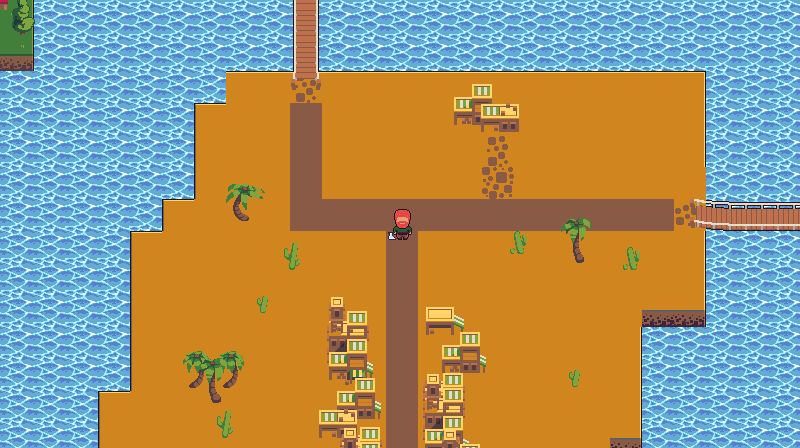
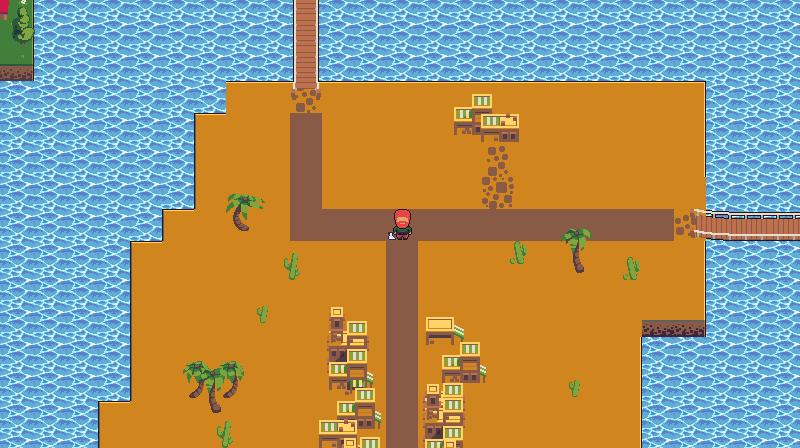
transition jitter fixed

diff --git a/LevelSelector/code/levelSelector.py b/LevelSelector/code/levelSelector.py
@@ -132,23 +132,23 @@ class YSortCameraGroup(pygame.sprite.Group):
 		map_offset = self.map_rect.topleft - self.offset
 		self.screen.blit(self.map_image, map_offset)
 
-		# stars_one_offset = self.level_one_stars_rect.topleft - self.offset
-		# self.screen.blit(self.level_one_stars, stars_one_offset)
+		stars_one_offset = self.level_one_stars_rect.topleft - self.offset
+		self.screen.blit(self.level_one_stars, stars_one_offset)
 
-		# stars_two_offset = self.level_two_stars_rect.topleft - self.offset
-		# self.screen.blit(self.level_two_stars, stars_two_offset)
+		stars_two_offset = self.level_two_stars_rect.topleft - self.offset
+		self.screen.blit(self.level_two_stars, stars_two_offset)
 
-		# stars_three_offset = self.level_three_stars_rect.topleft - self.offset
-		# self.screen.blit(self.level_three_stars, stars_three_offset)
+		stars_three_offset = self.level_three_stars_rect.topleft - self.offset
+		self.screen.blit(self.level_three_stars, stars_three_offset)
 
-		# stars_one_tut_offset = self.level_one_tut_stars_rect.topleft - self.offset
-		# self.screen.blit(self.level_one_tut_stars, stars_one_tut_offset)
+		stars_one_tut_offset = self.level_one_tut_stars_rect.topleft - self.offset
+		self.screen.blit(self.level_one_tut_stars, stars_one_tut_offset)
 
-		# stars_two_tut_offset = self.level_two_tut_stars_rect.topleft - self.offset
-		# self.screen.blit(self.level_two_tut_stars, stars_two_tut_offset)
+		stars_two_tut_offset = self.level_two_tut_stars_rect.topleft - self.offset
+		self.screen.blit(self.level_two_tut_stars, stars_two_tut_offset)
 
-		# stars_three_tut_offset = self.level_three_tut_stars_rect.topleft - self.offset
-		# self.screen.blit(self.level_three_tut_stars, stars_three_tut_offset)
+		stars_three_tut_offset = self.level_three_tut_stars_rect.topleft - self.offset
+		self.screen.blit(self.level_three_tut_stars, stars_three_tut_offset)
 
 
 		#loop through each sprite and blit according to offset position 

diff --git a/LevelSelector/code/player.py b/LevelSelector/code/player.py
@@ -19,8 +19,7 @@ class Player(pygame.sprite.Sprite):
 		self.dust_image = self.dust_right_frames[self.current_dust]
 
 		self.rect = self.image.get_rect(topleft = pos)
-		self.feet = self.rect.move(0, 10)
-		self.hitbox = self.feet.inflate(-10, -8)
+		self.hitbox = self.rect.inflate(-10, 0)
 
 		self.direction = pygame.math.Vector2()
 		self.speed = 3
@@ -154,15 +153,7 @@ class Player(pygame.sprite.Sprite):
 									pygame.mixer.music.play(-1)
 									pygame.mixer.music.set_volume(0.1)
 						elif event.key == pygame.K_n: 
-							if collided_entrance.level_number == 1 or collided_entrance.level_number == 3 or collided_entrance.level_number == 1.5 or collided_entrance.level_number == 0.5:
-								self.hitbox.y += 20
-							elif collided_entrance.level_number == 2: 
-								self.hitbox.y -= 20
-							elif collided_entrance.level_number == 0: 
-								self.hitbox.x += 30
-							elif collided_entrance.level_number == 2.5: 
-								self.hitbox.x -= 20
-								
+							self.hitbox.y += 20
 							level_request = False
 				
 				snip = self.custom_font.render(message[0:counter//speed], True, (0, 0, 0))
@@ -175,6 +166,7 @@ class Player(pygame.sprite.Sprite):
 
 
 	def update(self): 
+		# self.screen.blit(self.hitbox)
 		self.input()
 		self.move(self.speed)
 		self.check_animations()

diff --git a/main.py b/main.py
@@ -228,7 +228,7 @@ class Game:
 
 					elif settings.game_state == 0:
 						if event.key == pygame.K_k: 
-							pygame.image.save(self.screen, "./LevelSelector/TransitionImages/LevelTwoRespawn.png")
+							pygame.image.save(self.screen, "./LevelSelector/TransitionImages/LevelOneRespawn.png")
 							pass			
 
 			self.screen.fill('black')

diff --git a/settings.py b/settings.py
@@ -9,7 +9,7 @@ FPS      = 60
 TILESIZE = 32
 
 global game_state
-game_state = 2
+game_state = 1
 
 global next_game_state
 next_game_state = 0
